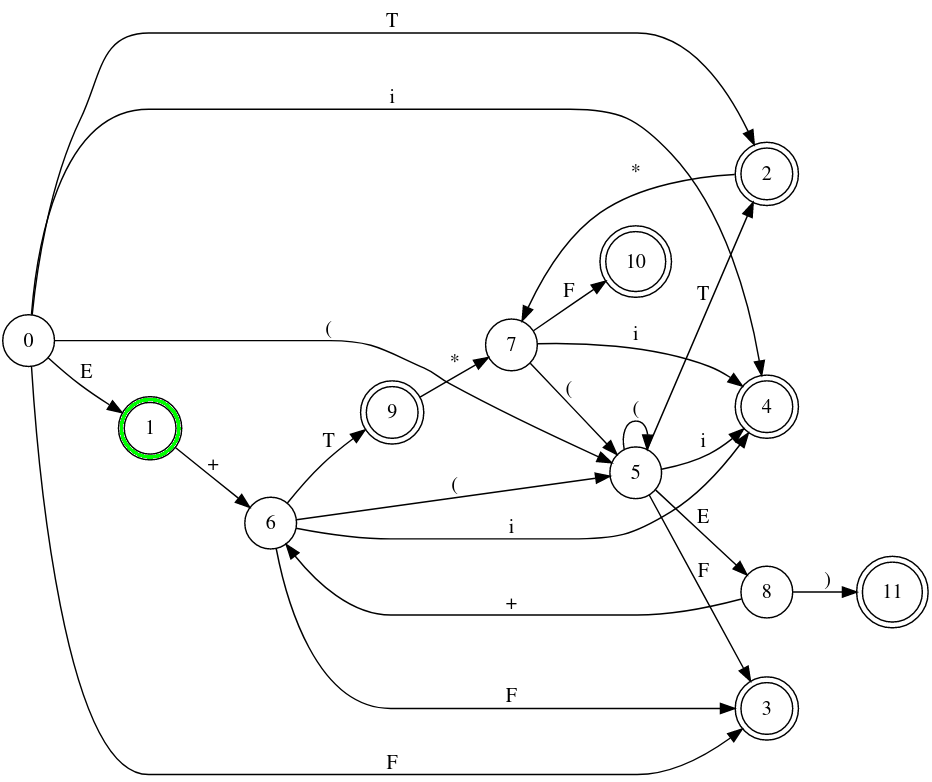
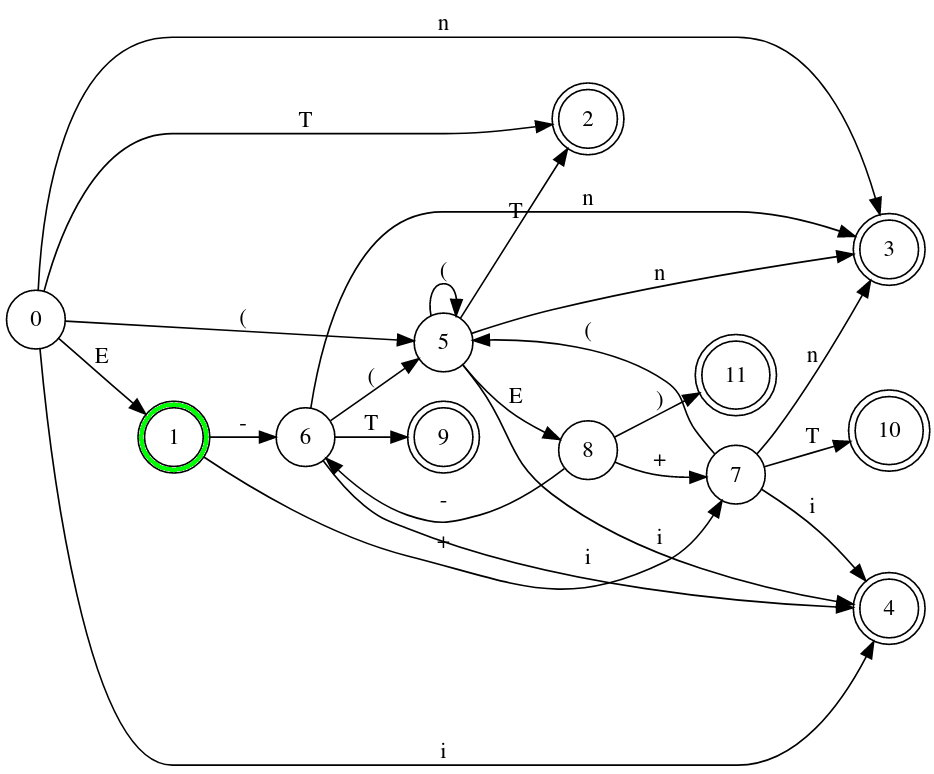
grammar 7 is now grammar 3

diff --git a/Latex/main.tex b/Latex/main.tex
@@ -259,7 +259,7 @@ L'esecuzione del programma su questa grammatica genera in output l'automa caratt
 
 
 \subsection{Grammatica 3}
-La terza grammatica è simile alla grammatica 3 ma con l'aggiunta delle parentesi. Sarà ora possibile combinare espressioni multiple e separarle utilizzando delle parentesizzazioni. Riportiamo per completezza la grammatica in questione:
+La terza grammatica è simile alla grammatica 3 ma con l'aggiunta delle parentesi e un operatore di sottrazione al posto di quello di moltiplicazione. Sarà ora possibile combinare espressioni multiple e separarle utilizzando delle parentesizzazioni. Riportiamo per completezza la grammatica in questione:
 \lstinputlisting[style=plain]{../test-grammars/grammar3.txt}
 
 L'esecuzione del programma su questa grammatica genera in output l'automa caratteristico descritto nel seguente listato
